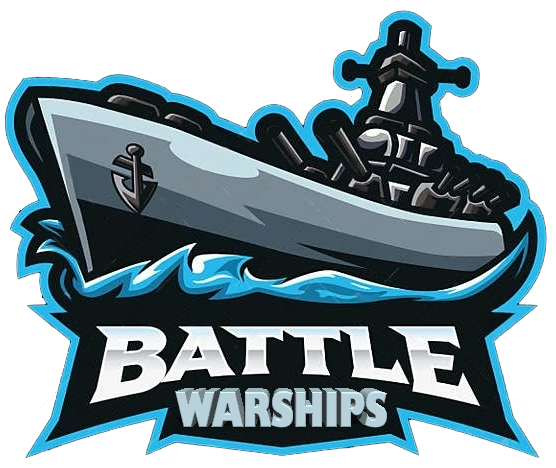
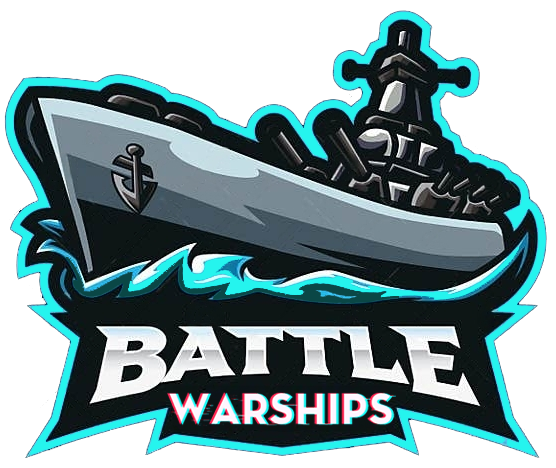
30jul23a

Changed region(s): [[0.0, 0.0, 1.0, 0.9872]]

diff --git a/Cheesecake/wwwroot/css/site.css b/Cheesecake/wwwroot/css/site.css
@@ -40,13 +40,13 @@ html
 
 body
 {
-    background: #222;
+    background: #000;
     ffont-size: 12px;
 }
 
 #bslogo
 {
-    margin: -2rem auto 0;
+    fmargin: -2rem auto 0;
     width: 25rem;
     display: block;
 }
@@ -69,6 +69,7 @@ body
     font-size: 25px;
     font-weight: 800;
     text-transform: uppercase;
+    display: none;
 }
 
 table
@@ -98,12 +99,44 @@ td
         height: 5.0rem;
     }
 
+#bsheader
+{
+    display: flex;
+    justify-content: space-between;
+    align-items: center;
+}
+
+#timer
+{
+    font-size: 10rem;
+    text-shadow: #25f4ee -.15rem -.15rem, #fe2c55 .15rem .15rem;
+    color: #fff;
+}
+
+#timer span
+{
+    text-shadow: none;
+    font-size: 6rem;
+    padding-bottom: 3.5rem;
+    margin-bottom: 3rem;
+}
+
+.numbers
+{
+    color: #25f4ee;
+}
+
+.letters
+{
+    color: #fe2c55;
+}
+
 .numbers, .letters
 {
     text-align: center;
     font-size: 20px;
     ffont-family: "Baloo Bhaina";
-    color: #f4f8ff;
+    fcolor: #f4f8ff;
     height: 40px;
     width: 40px;
     border: none;

diff --git a/Cheesecake/wwwroot/js/site.js b/Cheesecake/wwwroot/js/site.js
@@ -1,4 +1,35 @@
-
+var countdown;
+var minutes = 10;
+var seconds = 0;
+
+function startCountdown()
+{
+	clearInterval(countdown); // clear any existing interval
+
+	countdown = setInterval(function ()
+	{
+		seconds--;
+		if (seconds < 0)
+		{
+			seconds = 59;
+			minutes--;
+		}
+
+		if (minutes < 0)
+		{
+			clearInterval(countdown);
+			document.getElementById("timer").innerHTML = "00:00";
+		} else
+		{
+			document.getElementById("timer").innerHTML = "<span>⏲</span>" + (minutes < 10 ? "0" : "") + minutes.toString() + ":" + (seconds < 10 ? "0" : "") + seconds.toString();
+		}
+	}, 1000);
+}
+
+// Start countdown when page loads
+startCountdown();
+
+
 var model = {
 	boardSize: 10,
 	numShips: 5,
